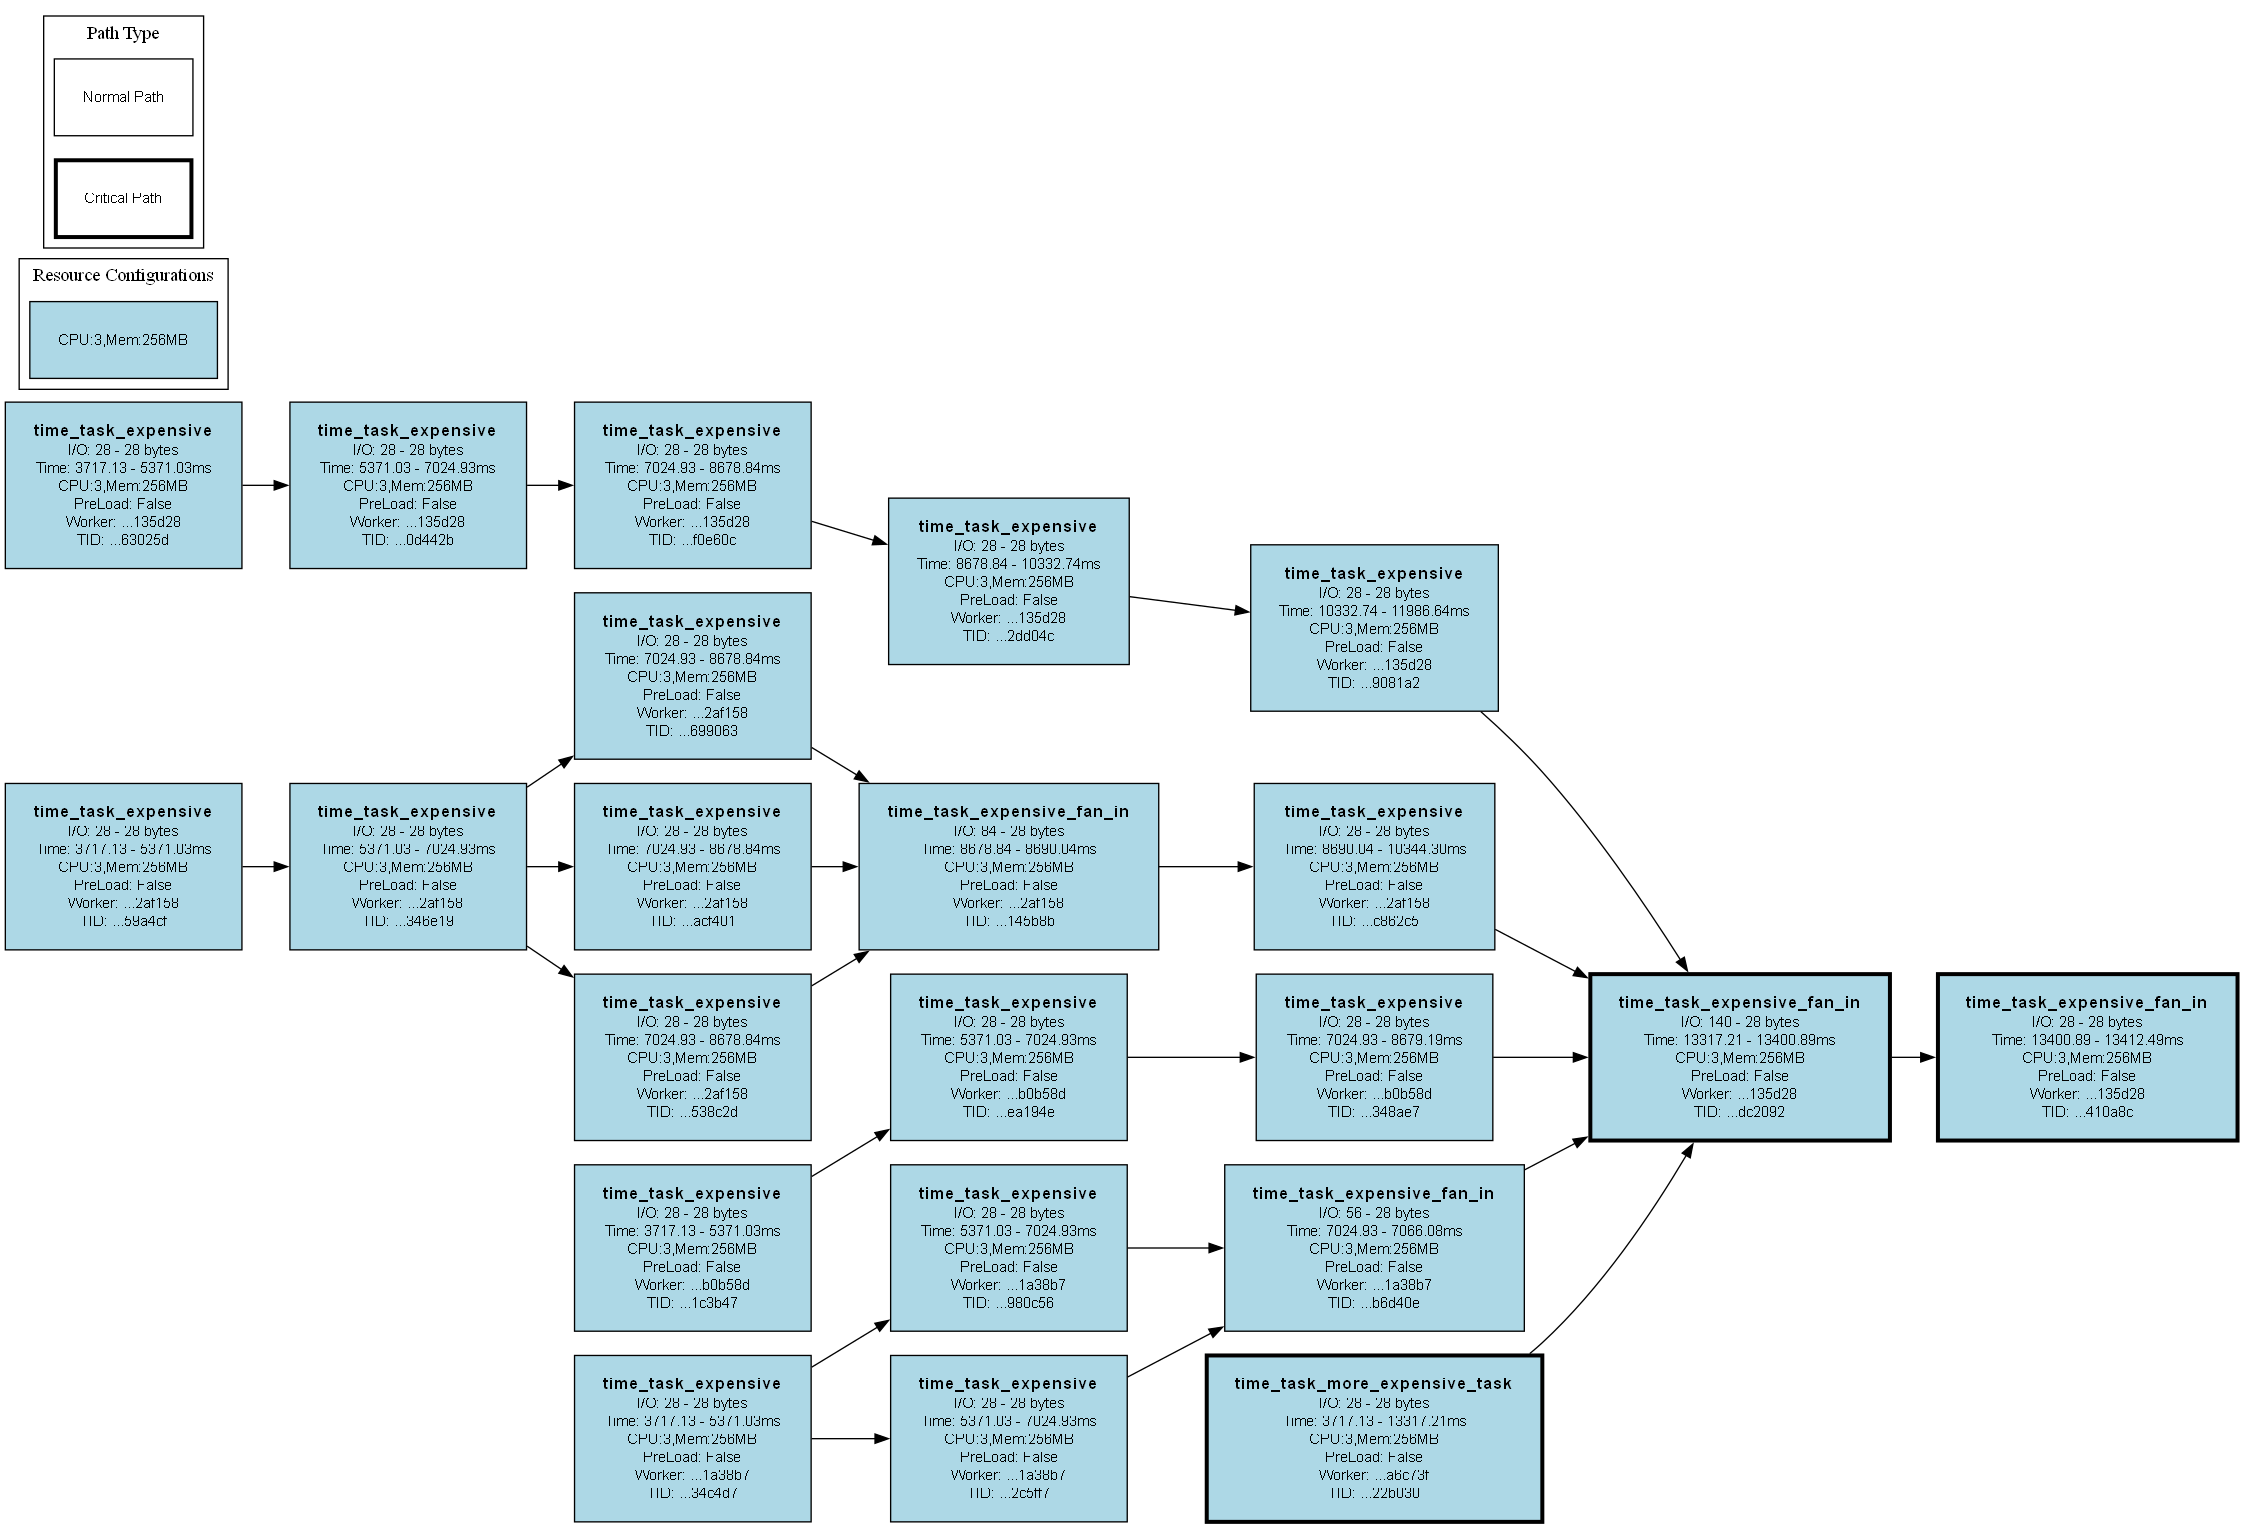
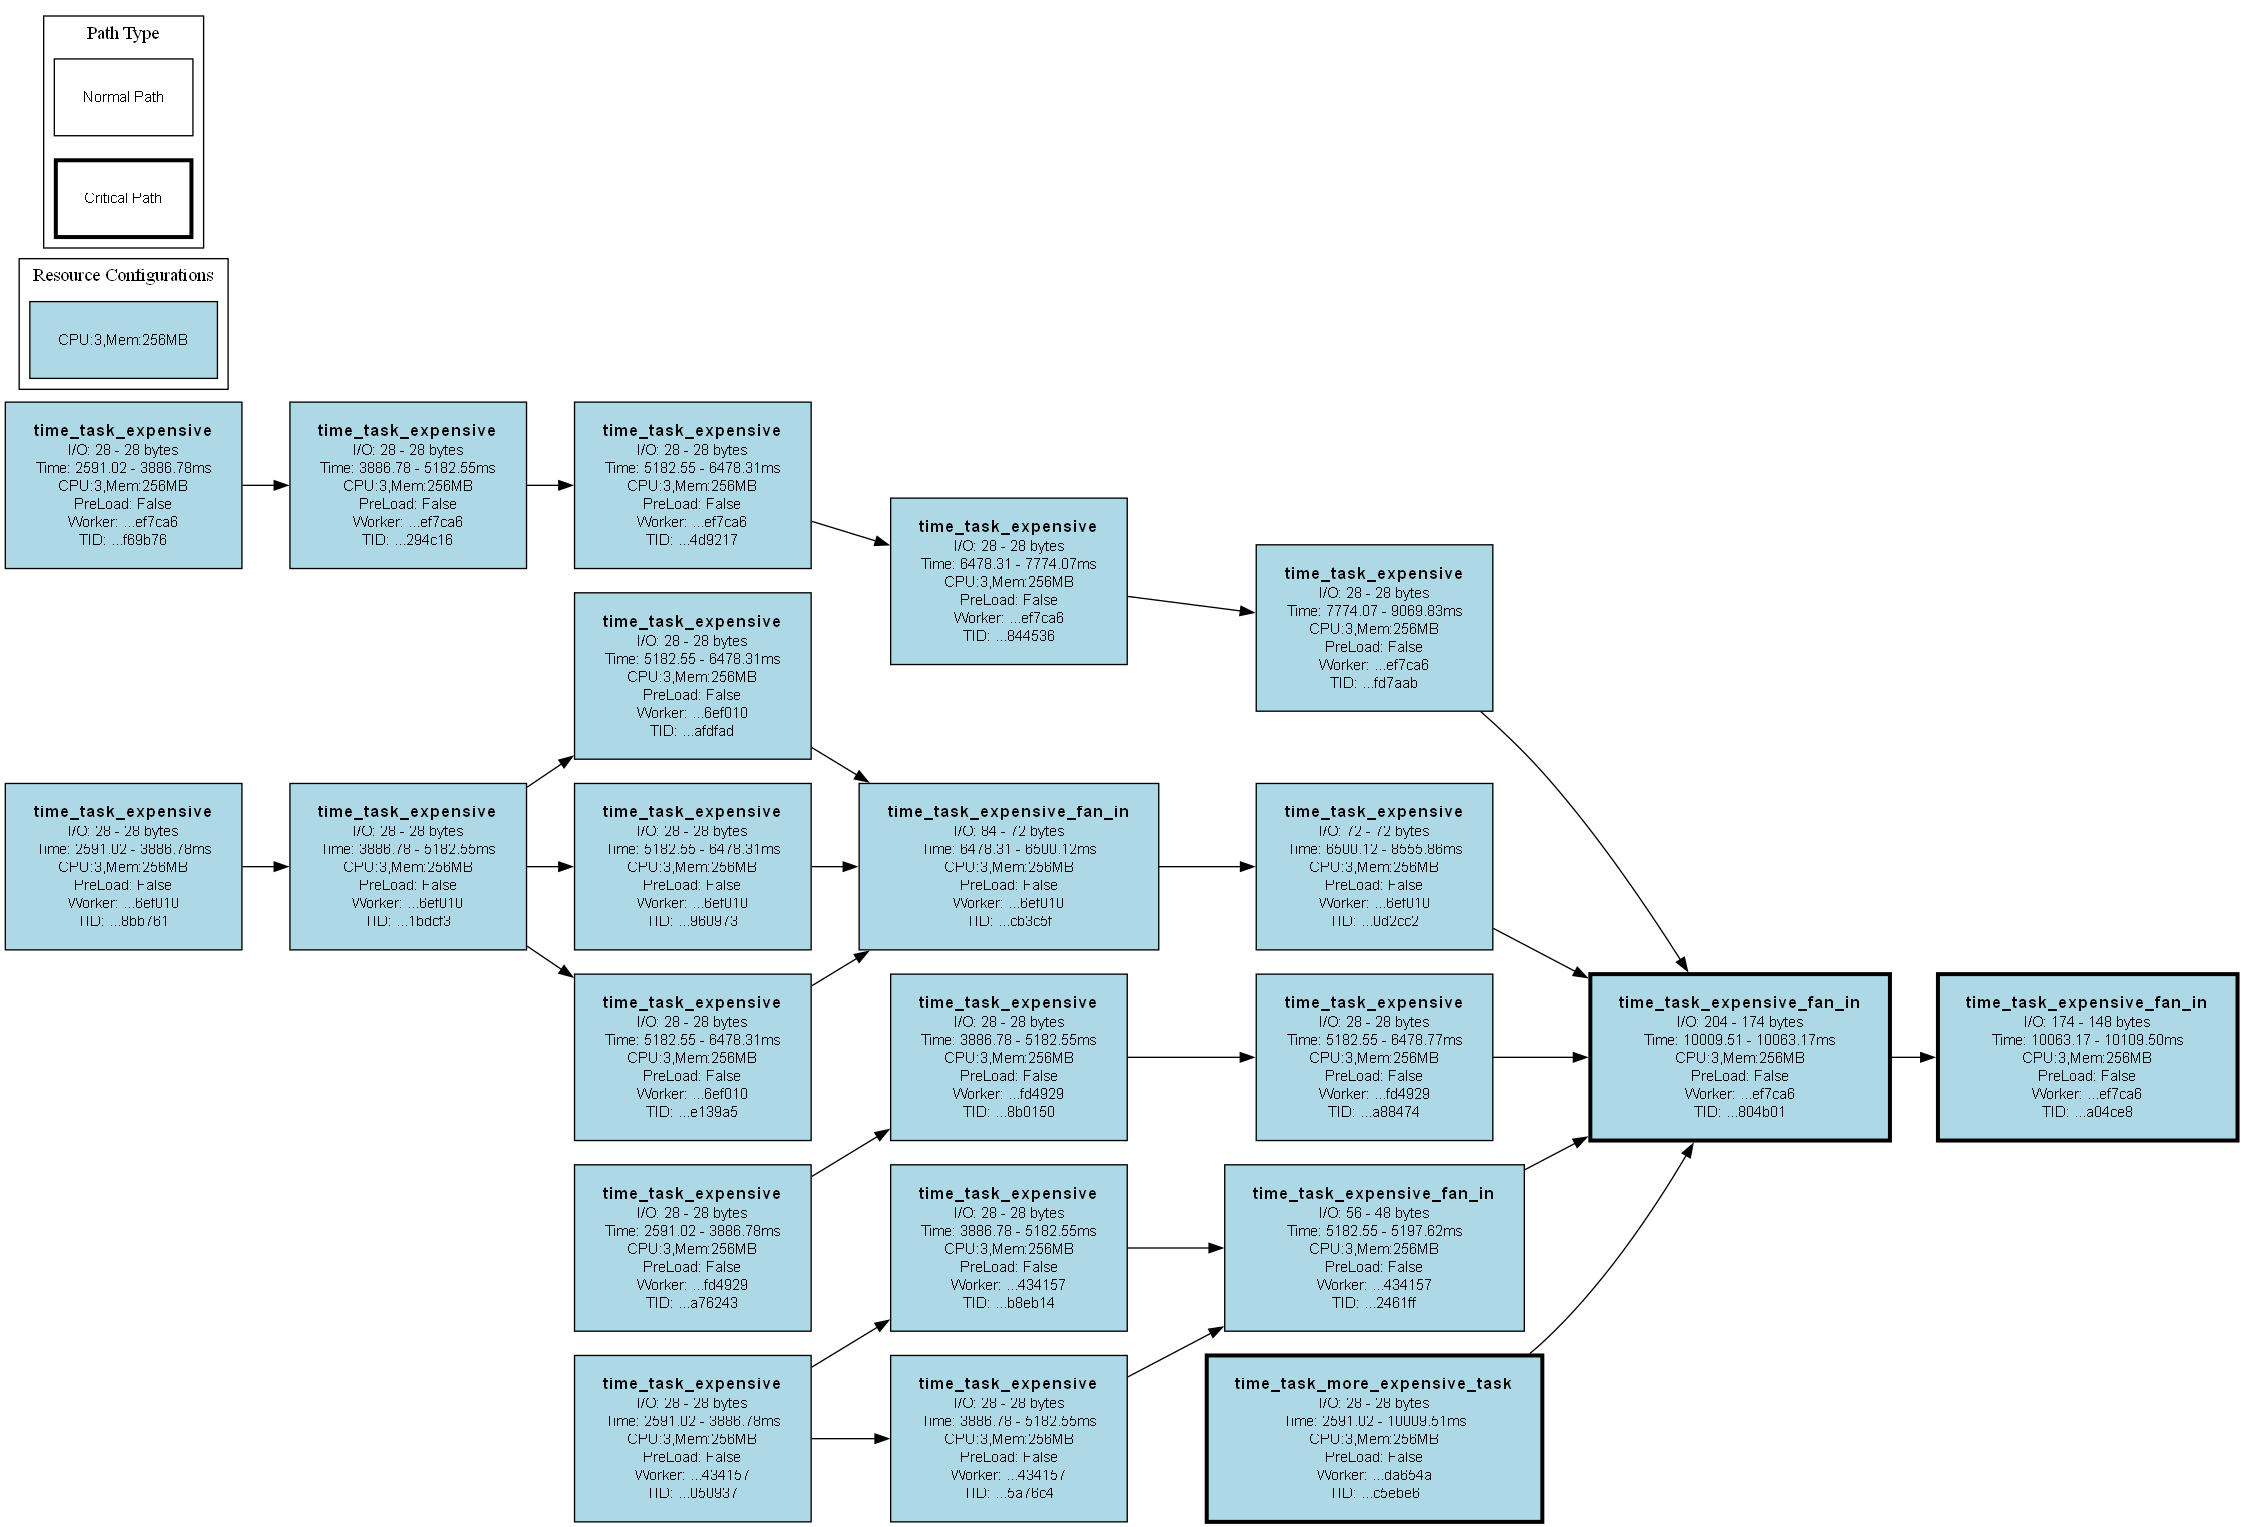
first algorithm is now assigning prewarm annotations (initial implementation)

diff --git a/src/planning/first_planner_algorithm.py b/src/planning/first_planner_algorithm.py
@@ -79,7 +79,7 @@ class FirstPlannerAlgorithm(AbstractDAGPlanner):
             nodes_optimized_this_iteration = 0
             
             for node in critical_path_nodes:
-                node_id = node.id.get_full_id()
+                my_node_id = node.id.get_full_id()
                 
                 if node.try_get_annotation(PreLoadOptimization): continue # Skip if node already has PreLoad annotation
                 
@@ -145,13 +145,58 @@ class FirstPlannerAlgorithm(AbstractDAGPlanner):
                 logger.warning(f"Maximum iterations reached. Stopping algorithm.")
                 break
 
+        # Add pre-warm annotations for cold starts
+        from src.planning.annotations.prewarm import PreWarmOptimization
+        
+        # For each node that has a cold start
+        for my_node_id, node_info in nodes_info.items():
+            if node_info.worker_startup_state != "cold": continue
+
+            # Calculate sum of execution times of tasks with same worker config that start after this node
+            my_worker_config = node_info.node_ref.get_annotation(TaskWorkerResourceConfiguration)
+            sum_exec_times = 0
+            
+            # Get tasks with same resources that start after this node (because they could also benefit from pre-warm)
+            for other_node_id, other_node_info in nodes_info.items():
+                if other_node_id == my_node_id: continue
+                other_worker_config = other_node_info.node_ref.get_annotation(TaskWorkerResourceConfiguration)
+                if other_worker_config.cpus != my_worker_config.cpus or other_worker_config.memory_mb != my_worker_config.memory_mb: continue
+                if other_node_info.earliest_start_ms > node_info.earliest_start_ms:
+                    sum_exec_times += other_node_info.tp_exec_time_ms
+            
+            if not (node_info.tp_worker_startup_time_ms > 0.15 * sum_exec_times):
+                # don't apply pre-warm if the startup time is not significant when compared to the time that worker will be executing
+                continue
+            
+            # Find the best node to add pre-warm annotation to
+            best_node = None
+            best_start_time = -1
+            TIME_UNTIL_COLD_MS = 10_000 # lower bound (if goes below, it will become cold again)
+            TIME_MARGIN_MS = 1_500 # upper bound (if goes above, it is too close that it wouldn't make sense to pre-warm)
+            
+            for other_node_id, other_node_info in nodes_info.items():
+                if other_node_id == my_node_id: continue
+                
+                # time at which the worker config I need would be available if I were to add pre-warm annotation to this node
+                my_potential_start_if_prewarmed = other_node_info.earliest_start_ms + node_info.tp_worker_startup_time_ms
+                min_prewarm_time = max(0, node_info.earliest_start_ms - TIME_UNTIL_COLD_MS)
+                max_prewarm_time = max(0, node_info.earliest_start_ms - TIME_MARGIN_MS)
+                is_in_optimal_prewarm_window = min_prewarm_time < my_potential_start_if_prewarmed < max_prewarm_time
+                
+                if is_in_optimal_prewarm_window and (best_node is None or other_node_info.earliest_start_ms > best_start_time):
+                    best_node = other_node_info.node_ref
+                    best_start_time = other_node_info.earliest_start_ms
+            
+            # Add pre-warm annotation to the best node found
+            if best_node is not None: best_node.add_annotation(PreWarmOptimization(my_worker_config))
+        
         # Final statistics
         final_nodes_info = self._calculate_node_timings_with_common_resources(topo_sorted_nodes, predictions_provider, self.config.worker_resource_configuration, self.config.sla)
         final_critical_path_nodes, final_critical_path_time = self._find_critical_path(dag, final_nodes_info)
         final_critical_path_node_ids = { node.id.get_full_id() for node in final_critical_path_nodes }
             
         unique_worker_ids: dict[str, int] = {}
-        for node_id, node in _dag._all_nodes.items():
+        for my_node_id, node in _dag._all_nodes.items():
             resource_config = node.get_annotation(TaskWorkerResourceConfiguration)
             if resource_config.worker_id is None: continue
             if resource_config.worker_id not in unique_worker_ids: unique_worker_ids[resource_config.worker_id] = 0

diff --git a/TODO.md b/TODO.md
@@ -14,15 +14,11 @@
     possible benefits: faster startup times for some tasks on workers with a resource config for which there are not yet enough worker instances
     possible issues: to simulate this, I have to set "ALLOW_CONTAINER_REUSAGE=True", but this will make the experiments unfair because some startups will be warm
     [TODO]
-        - [DONE] implement annotation
-            """
-            Don't handle errors and send the request in an async manner. the caller of warmup() should NOT block waiting for the request to receive a response. It should be a fire and forget
-            """
-        - [DONE] implement the handling of empty invocations
-        - make planner algorithms use this optimization (decide when it's appropriate and apply on all algorithms)
-            make the planners call the `.override_before_task_handling` on their overriden `workerexecutionlogic` methods
-            when to add this annotation ?:
-        - make the simulator take this into consideration to predict `warm` instead of `cold` starts
+        - Make the simulator take this into consideration to predict `warm` instead of `cold` starts
+            change the `_calculate_node_timings_with_common_resources` function to look at the `prewarm` annotation
+        ``` [MAY NOT BE NEEDED IF I REFRESH NODES_INFO BY CALLING "_calculate_node_timings_with_common_resources" after adding a prewarm annotation]
+        @first_planner_algorithm.py#L152-191 this works but since the outer for loop is iterating on all nodes I want to avoid adding unneded prewarm annotations. For example, after I add a prewarm annotation in an iteration, that worker config (memory and cpu) will be warm until there is a gap of TIME_UNTIL_COLD_MS where no task is executing on it. Please make future iterations take that into consideration
+        ```
 
 - `task-dup`
     if a worker A is waiting for the data of an upstream task 1 (executing or to be executed on worker 2) to be available, 
